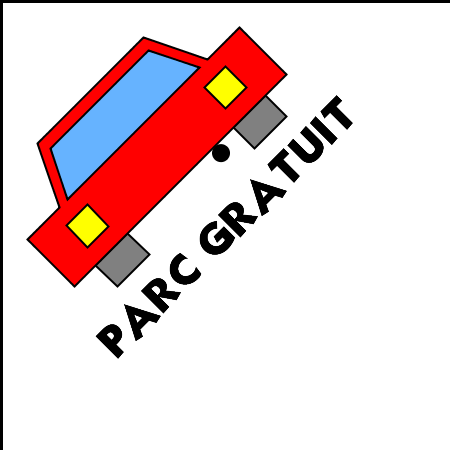
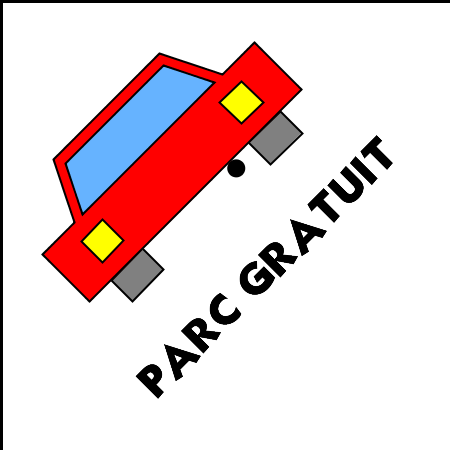
Fixed spacing for free parking

Changed region(s): [[0.0622, 0.0622, 0.7778, 0.8089], [0.5289, 0.3111, 0.8711, 0.6533], [0.3111, 0.6533, 0.56, 0.9022]]

diff --git a/src/ch/maystre/gilbert/custopoly/graphics/square/FreeParcSquare.java b/src/ch/maystre/gilbert/custopoly/graphics/square/FreeParcSquare.java
@@ -53,9 +53,9 @@ public class FreeParcSquare extends Square {
 
     // endregion
 
-    private static final int TEXT_HEIGHT = 80;
+    private static final int TEXT_HEIGHT = 150;
 
-    private static final int ROTATING_SQUARE_SIZE = 350;
+    private static final int ROTATING_SQUARE_SIZE = 430;
 
     @Override
     public BufferedImage buildImage() {
